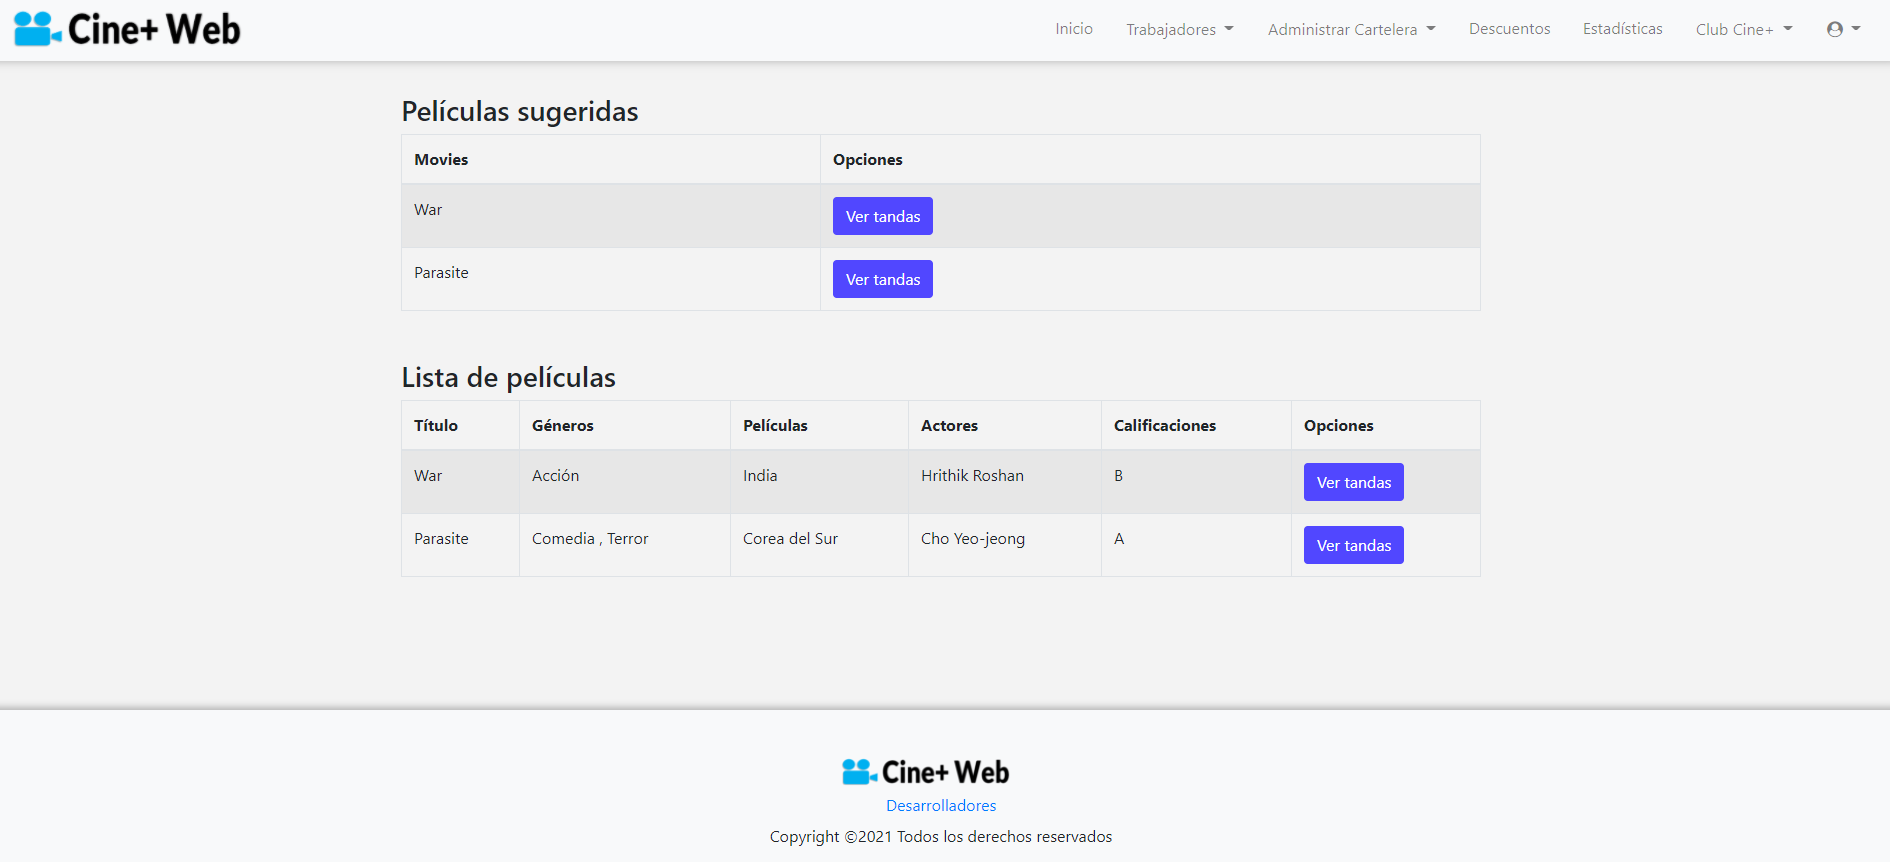
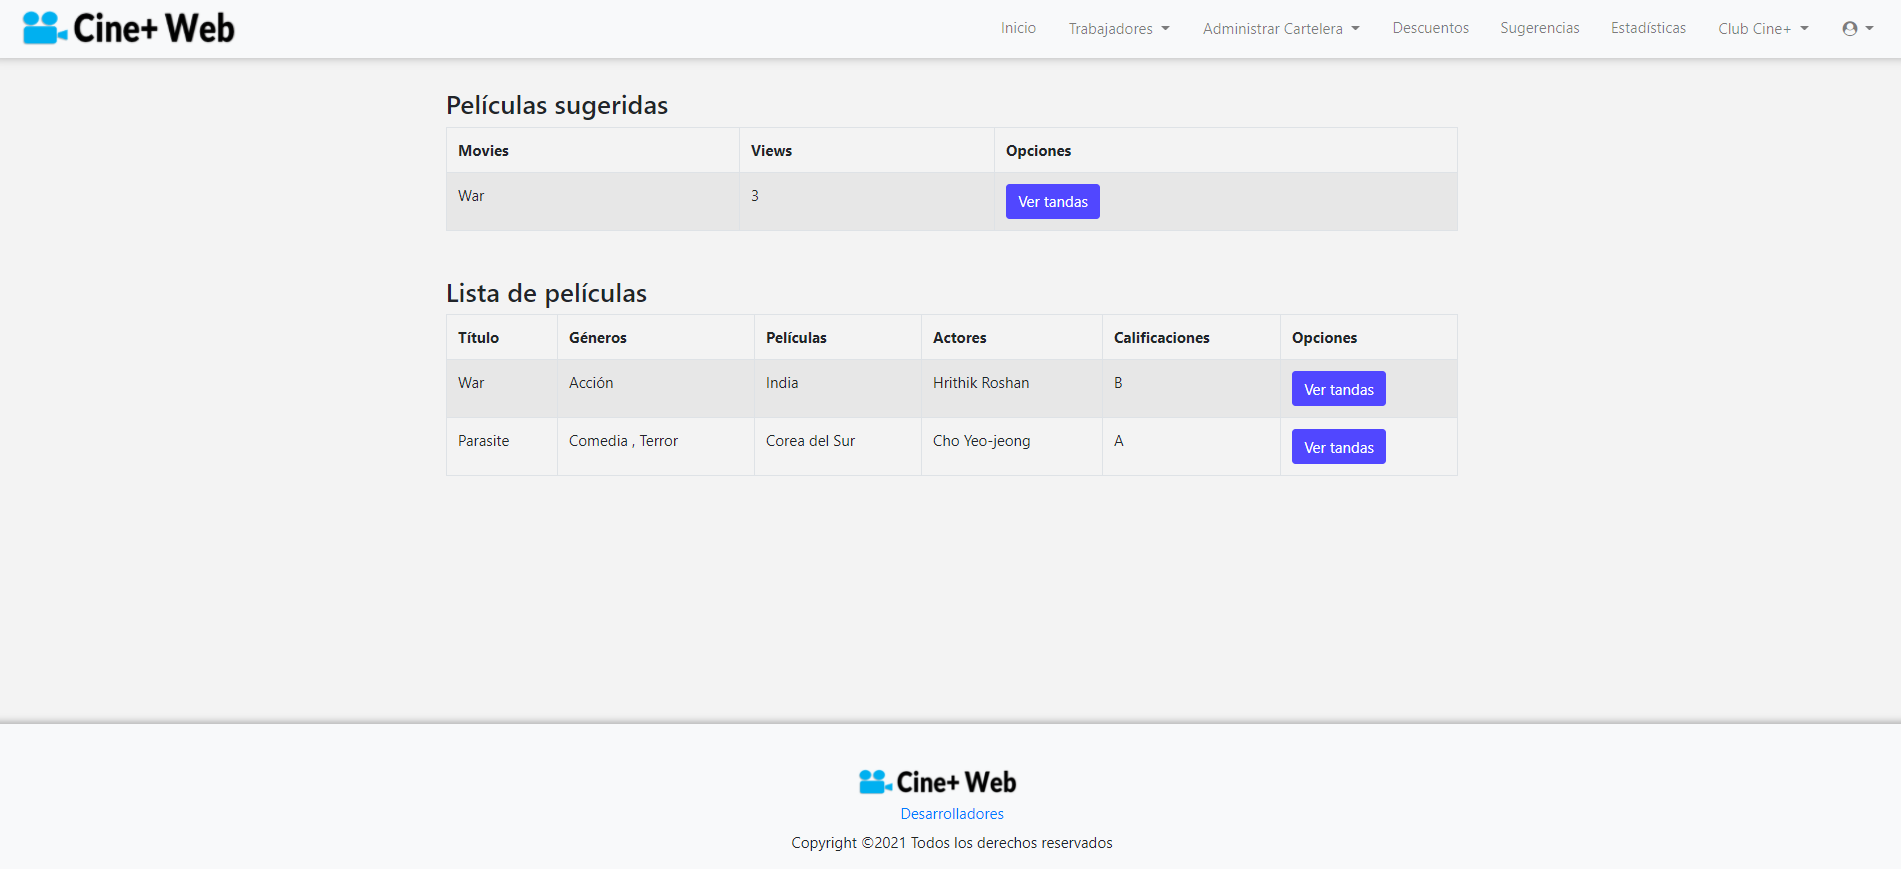
update manual

diff --git a/doc/Informe/chapters/Anexo1_Manual_de_usuario.tex b/doc/Informe/chapters/Anexo1_Manual_de_usuario.tex
@@ -16,10 +16,10 @@ En caso de que las credenciales del usuario sean correctas esta página redirecc
 
 \begin{figure}[h!]
 	\centering
-	\includegraphics[scale=0.4]{./chapters/img/Index.png}
+	\includegraphics[scale=0.35]{./chapters/img/Index.png}
 	
 	\label{fig:Index}
-	\caption{Index}
+	\caption{P\'agina Inicial}
 \end{figure}
 \newpage
 
@@ -36,13 +36,22 @@ A continuación se presentan las cabeceras de los tres (3) tipos de usuarios:\\
 \end{figure}
 \begin{figure}[h!]
 	\centering
+	\includegraphics[scale=0.4]{./chapters/img/header_taquillero.png}
+	
+	\label{fig:header_taquillero}
+	\caption{Cabecera Taquillero}
+\end{figure}
+\begin{figure}[h!]
+	\centering
 	\includegraphics[scale=0.4]{./chapters/img/header_client.png}
 	
 	\label{fig:header_client}
 	\caption{Cabecera Cliente}
 \end{figure}
 
-Para el registro de usuarios como jugadores se tiene el siguiente formulario accesible desde la cabecera de los usuarios que no están autenticados.
+
+Para el registro de usuarios se tiene el siguiente formulario accesible desde la cabecera de los usuarios que no están autenticados.
+\newpage
 
 \begin{figure}[h!]
 	\centering
@@ -52,7 +61,7 @@ Para el registro de usuarios como jugadores se tiene el siguiente formulario acc
 	\caption{Registro}
 \end{figure}
 
-Los gerentes son los que est\'an facultados para la designación de nuevos taquilleros. Para ello se cuenta con un formulario accesible desde el acápite \verb|Designar| en la cabecera de estos tipos de usuarios. A continuación se presenta el formulario de registro de un nuevo taquillero.\\
+Los gerentes son los que est\'an facultados para la designación de nuevos taquilleros y gerentes. Para ello se cuenta con un formulario similar al de registro de usuarios accesible desde \verb|Trabajadores|, opci\'on \verb|Gerentes| y \verb|Taquilleros| disponible en la cabecera de los usuarios con el rol de gerente.
 
 \subsection{Gestión de Cartelera}
 
@@ -70,6 +79,7 @@ Todas las opciones referentes a la gestión de cartelera est\'an disponibles en 
 \subsubsection{Gestor de Pel\'iculas}
 La opci\'on referente a la gesti\'on de pel\'iculas es accesible desde la pesta\~na \verb*|Administar| \verb*|Cartelera|. Al hacer click se despliegan dos opciones referentes a pel\'iculas como se observa en la siguiente imagen.
 
+\newpage
 \begin{figure}[h!]
 	\centering
 	\includegraphics[scale=0.35]{./chapters/img/movie_option.png}
@@ -78,7 +88,7 @@ La opci\'on referente a la gesti\'on de pel\'iculas es accesible desde la pesta\
 	\caption{Opciones Gestor Pel\'icula}
 	
 \end{figure}
-La opci\'on \verb*|Ver| \verb*|Todas| carga la p\'agina Movies donde se muestra la tabla de las pel\'iculas registradas en la base de datos y la botones para agregar, editar o eliminar estas.
+La opci\'on \verb*|Ver| \verb*|Todas| carga la p\'agina Movies donde se muestra la tabla de las pel\'iculas registradas en la base de datos y la botones para agregar o eliminar estas.
 
 \begin{figure}[h!]
 	\centering
@@ -90,7 +100,7 @@ La opci\'on \verb*|Ver| \verb*|Todas| carga la p\'agina Movies donde se muestra 
 \end{figure}
 
 Al agregar una pel\'icula se debe especificar \'el(los) g\'eneros a la que pertenece, la calificaci\'on, pa\'is y los actores que en ella participan as\'i como se observa en la siguiente imagen.
-
+\newpage
 \begin{figure}[h!]
 	\centering
 	\includegraphics[scale=0.35]{./chapters/img/add_movie.png}
@@ -117,7 +127,7 @@ La informaci\'on relacionada con las funciones se encuentra representada de form
 \end{figure}
 
 \subsection{Gestor de Socios}
-Las opciones referentes a la gesti\'on de socios son accesibles desde la pesta\~na \verb*|Club| \verb*|Cine+| 
+Las opciones referentes a la gesti\'on de socios son accesibles desde la pesta\~na \verb*|Club| \verb*|Cine+| disponible en la cabecera de taquillero y gerente
 
 \begin{figure}[h!]
 	\centering
@@ -151,10 +161,60 @@ La pesta\~na \verb*|Descuentos| disponible en la cabecera direcciona a la p\'agi
 	
 \end{figure}
 
+
+
+\subsection{Gestor de Trabajadores}
+La pesta\~na \verb*|Trabajadores| disponible desde la cabecera de los gerentes despliega dos opciones, la primera \verb*|Taquilleros| la cual direcciona a una p\'agina donde se muestran la informaci\'on referente a los taquilleros registrados y muestra la opci\'on \verb*|Registrar|  \verb*|Taquillero| con un formulario similar al del registro de usuario.
+
+\begin{figure}[h!]
+	\centering
+	\includegraphics[scale=0.35]{./chapters/img/ver_taquilleros.png}
+	
+	\label{fig:ver_taquilleros}
+	\caption{Taquilleros}
+	
+\end{figure}
+
+La segunda opci\'on \verb*|Gerentes| direcciona a una p\'agina donde se muestran la informaci\'on referente a los gerentes registrados y muestra la opci\'on \verb*|Registrar|  \verb*|Gerente| con un formulario similar al del registro de usuario.
+\newpage
+\begin{figure}[h!]
+	\centering
+	\includegraphics[scale=0.35]{./chapters/img/ver_gerentes.png}
+	
+	\label{fig:ver_gerentes}
+	\caption{Gerentes}
+	
+\end{figure}
+
+\subsection{Sugerencias}
+Esta opci\'on es accesible desde las cabecera de los gerentes, esta direcciona a una p\'agina donde se muestran los criterios a aplicar en la sugerencia de pel\'iculas que se muestra en la p\'agina inicial de la aplicaci\'on.
+
+\begin{figure}[h!]
+	\centering
+	\includegraphics[scale=0.35]{./chapters/img/criteria.png}
+	
+	\label{fig:criteria}
+	\caption{Sugerencias}
+	
+\end{figure}
+
+\subsection{Estad\'isticas}
+Esta opci\'on es accesible desde las cabecera de los gerentes, esta direcciona a una p\'agina donde se muestran las diferentes opciones para la consulta de ventas seg\'un el filtro escogido.
+\newpage
+\begin{figure}[h!]
+	\centering
+	\includegraphics[scale=0.35]{./chapters/img/statistics.png}
+	
+	\label{fig:statistics}
+	\caption{Estad\'isticas}
+	
+\end{figure}
 \subsection{Compra de entradas}
 Un usuario puede visualizar las funciones tanto desde la p\'agina inicial accediendo a las tandas desde el bot\'on ubicado en el mismo rengl\'on de la pel\'icula referida como desde la pesta\~na Cartelera disponible en la cabecera para los usuarios clientes, esta \'ultima al hacer click direcciona a la p\'agina donde se muestra el listado de funciones, en cada rengl\'on se muestra una funci\'on y las opciones asociadas a estas.\\
 
-La opci\'on comprar entrada redirecciona a la siguiente p\'agina:
+\subsubsection{Paso 1}
+En este paso se muestra el campo de C\'odigo de Socio que puede ser especificado y el N\'umero de entradas especificar la cantidad de estas, para avanzar se debe hacer click en el bot\'on \verb*|Aceptar|\\
+
 \begin{figure}[h!]
 	\centering
 	\includegraphics[scale=0.35]{./chapters/img/ticketpurchase1.png}
@@ -164,4 +224,61 @@ La opci\'on comprar entrada redirecciona a la siguiente p\'agina:
 	
 \end{figure}
 
-En el campo de C\'odigo de Socio se debe especificar en caso de ser el cliente socio del club, y el N\'umero de entradas especificar la cantidad de estas.
+\subsubsection{Paso 2}
+En este paso se muestra las sillas disponibles de la sala donde el usuario puede seleccionar a su conveniencia, el sistema por defecto seleccionar\'a de forma consecutiva en caso de estar disponibles de acuerdo a la cantidad especificada en el paso anterior, para avanzar se debe hacer click en el bot\'on \verb*|Enviar| \verb*|Sillas|.
+
+\begin{figure}[h!]
+	\centering
+	\includegraphics[scale=0.35]{./chapters/img/seat.png}
+	
+	\label{fig:seats}
+	\caption{Seleccionar Sillas}
+\end{figure}
+
+\subsubsection{Paso 3}
+En este paso se muestra la lista de descuentos disponibles a aplicar para cada silla. El usuario puede o no especificar por cada silla el descuento a aplicar, luego debe proceder a reservar las silla ya sea la cantidad especificada inicial o una cantidad menor a esta, para avanzar \'ultimo se debe hacer click en el bot\'on \verb*|Pagar|.
+
+\begin{figure}[h!]
+	\centering
+	\includegraphics[scale=0.35]{./chapters/img/reserve.png}
+	
+	\label{fig:reserve}
+	\caption{Reservar Sillas}
+\end{figure}
+
+\subsubsection{Paso 4}
+En este paso se muestra el total a pagar con dinero y con cr\'editos, este \'ultimo aparece en caso de que sea especificado el c\'odigo de socio en paso 1, el campo tarjeta de cr\'edito y la opci\'on de pagar con dinero. El usuario en caso de desear pagar con dinero deber\'a especificar el n\'umero de tarjeta de cr\'edito en el campo correspondiente, en otro caso, pagar con cr\'edito solo no se activa la opci\'on de pagar con dinero. Para avanzar al pr\'oximo paso se hacer click en el bot\'on \verb*|Pagar|.
+
+\begin{figure}[h!]
+	\centering
+	\includegraphics[scale=0.35]{./chapters/img/ticketpurchase2.png}
+	
+	\label{fig:ticketpurchase2}
+	\caption{Tickect de compra}
+	
+\end{figure}
+
+
+\subsubsection{Paso 5}
+En este paso se muestra el c\'odigo de compra. El cliente debe guardarlo en caso que se desee cancelar la reservaci\'on
+
+\begin{figure}[h!]
+	\centering
+	\includegraphics[scale=0.35]{./chapters/img/ticketpurchase3.png}
+	
+	\label{fig:ticketpurchase3}
+	\caption{Tickect de compra}
+	
+\end{figure}
+
+\subsection{Informaci\'on Personal}
+El usuario puede visualizar su informaci\'on personal accediendo desde la pesta\~na con el \'icono de usuario, al hacer click en esta aparece la opci\'on Informaci\'on Personal, la que direcciona a una p\'agina donde se muestran los datos introducidos por el usuario en el registro de su cuenta adem\'as del c\'odigo de socio generado pro el sistema.
+
+\begin{figure}[h!]
+	\centering
+	\includegraphics[scale=0.35]{./chapters/img/personal_info.png}
+	
+	\label{fig:personal_info}
+	\caption{Informaci\'on Personal}
+	
+\end{figure}
